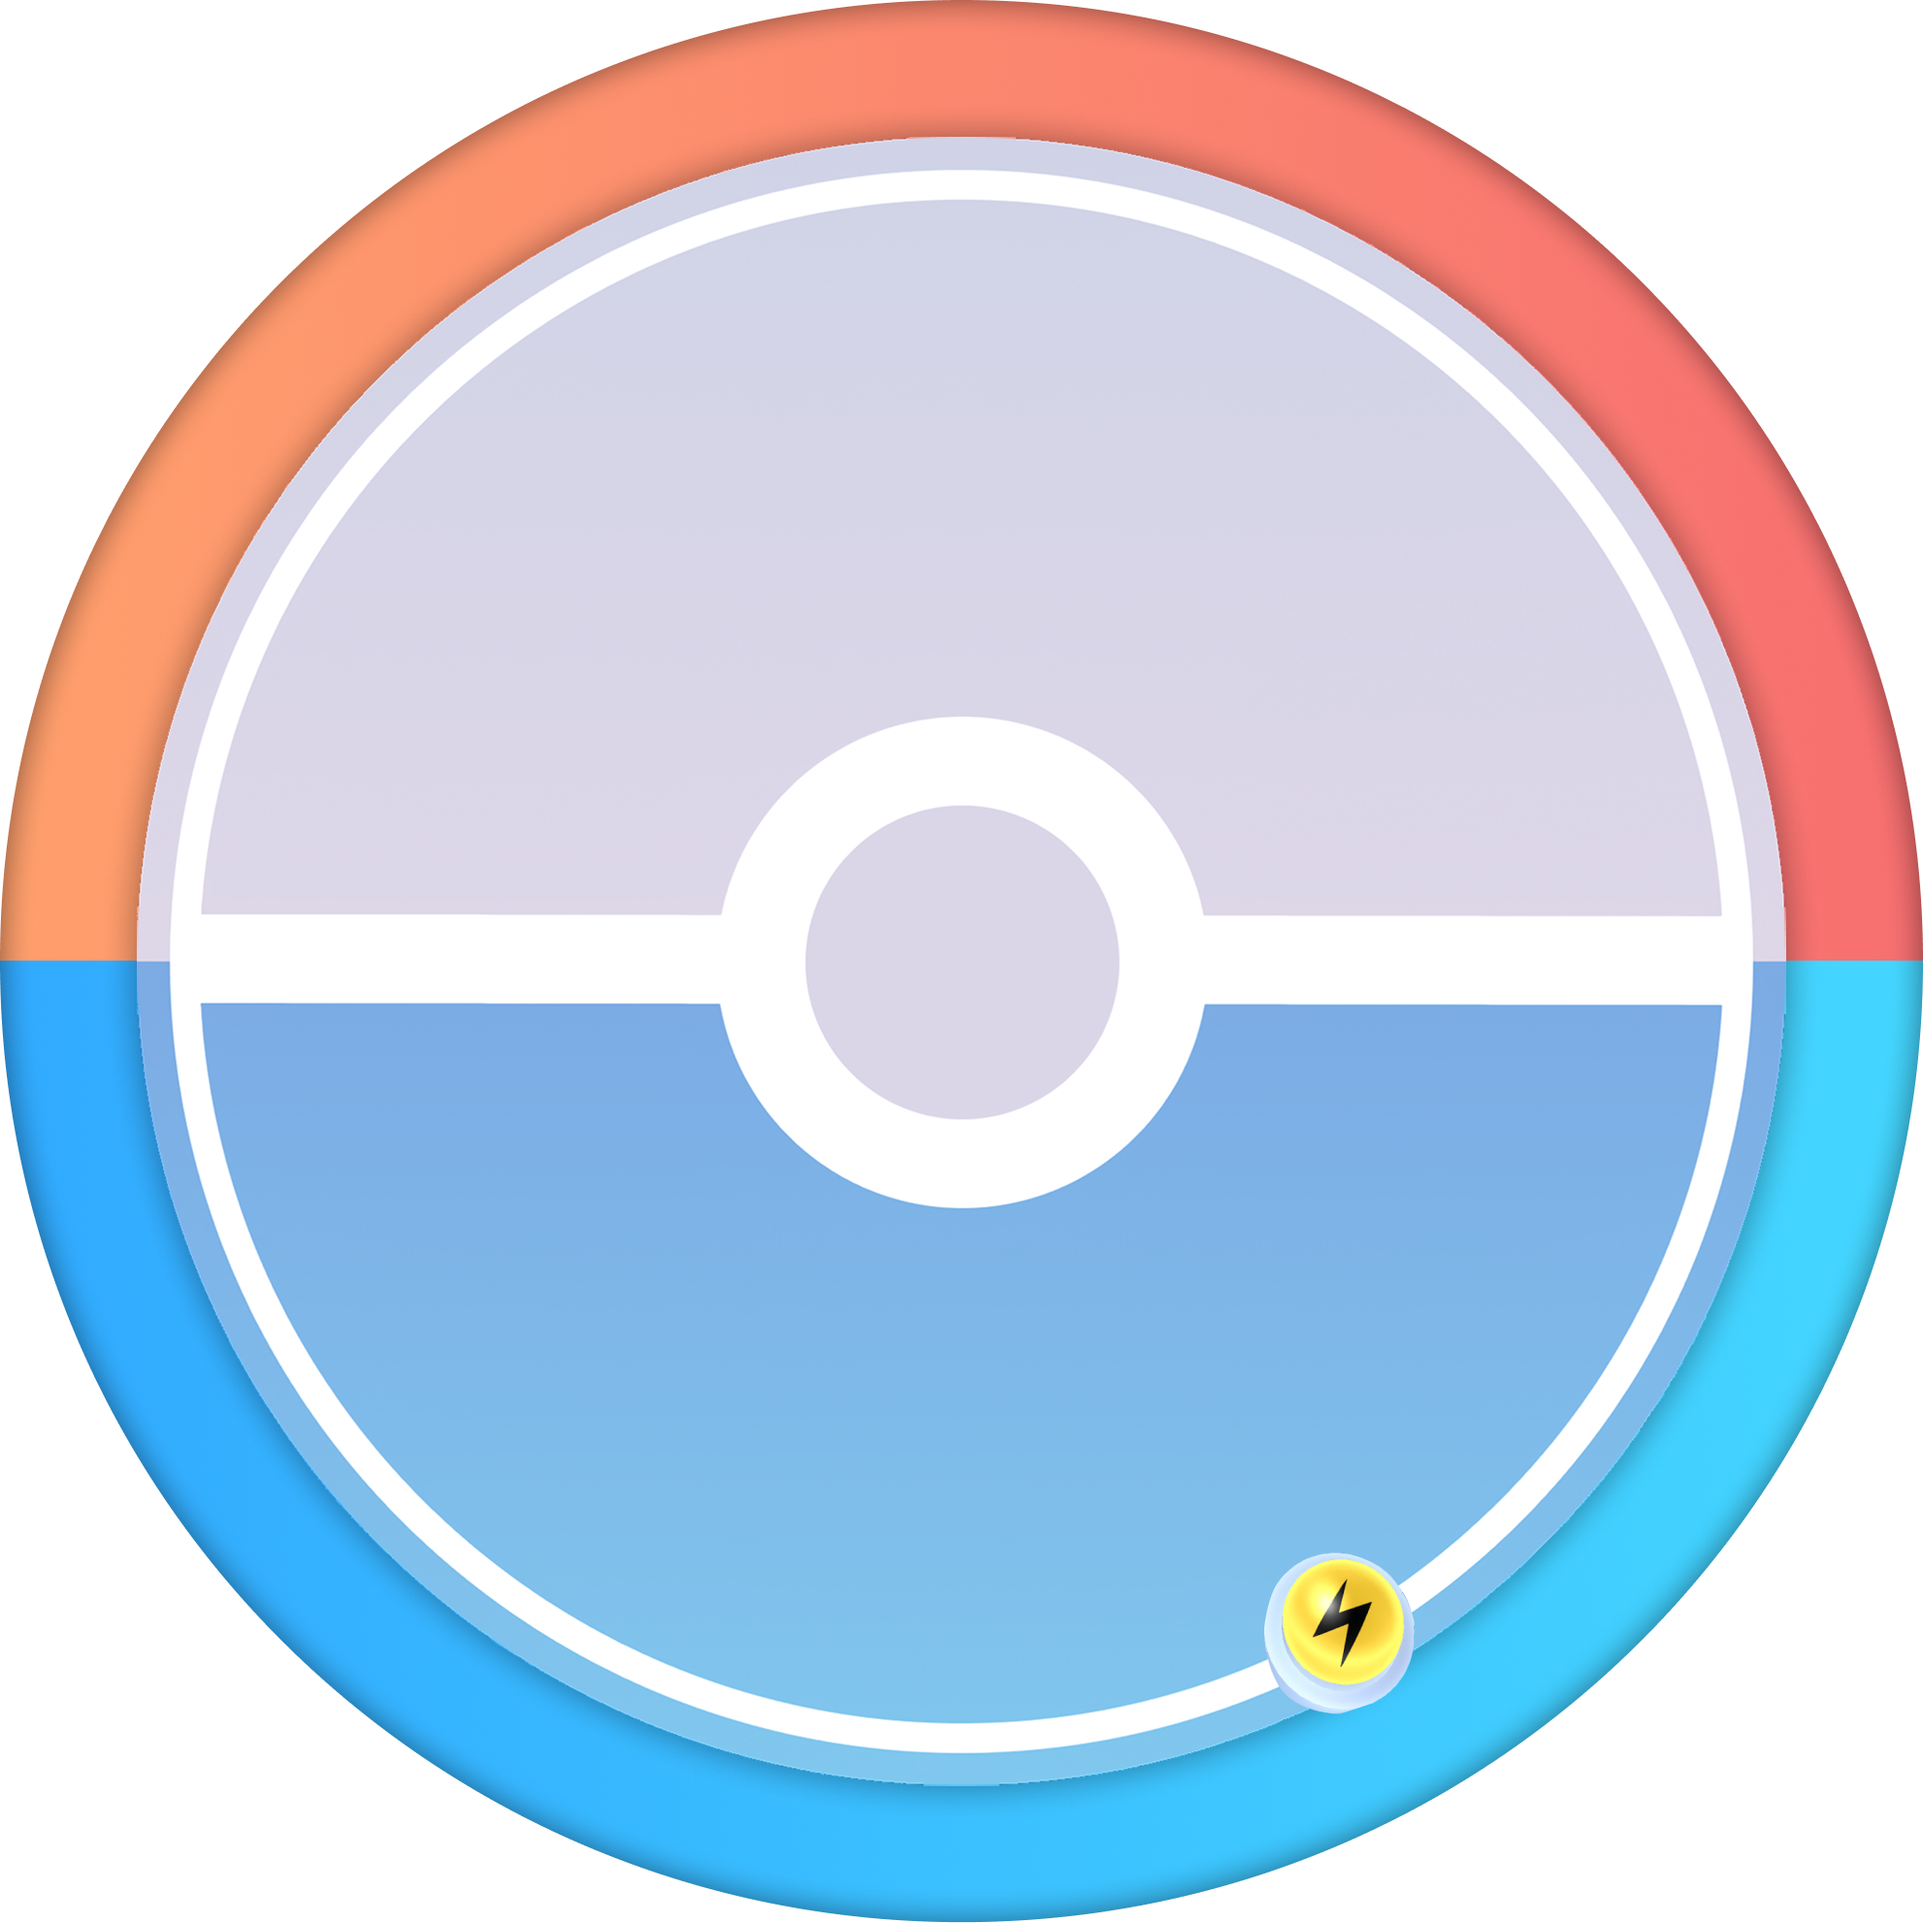
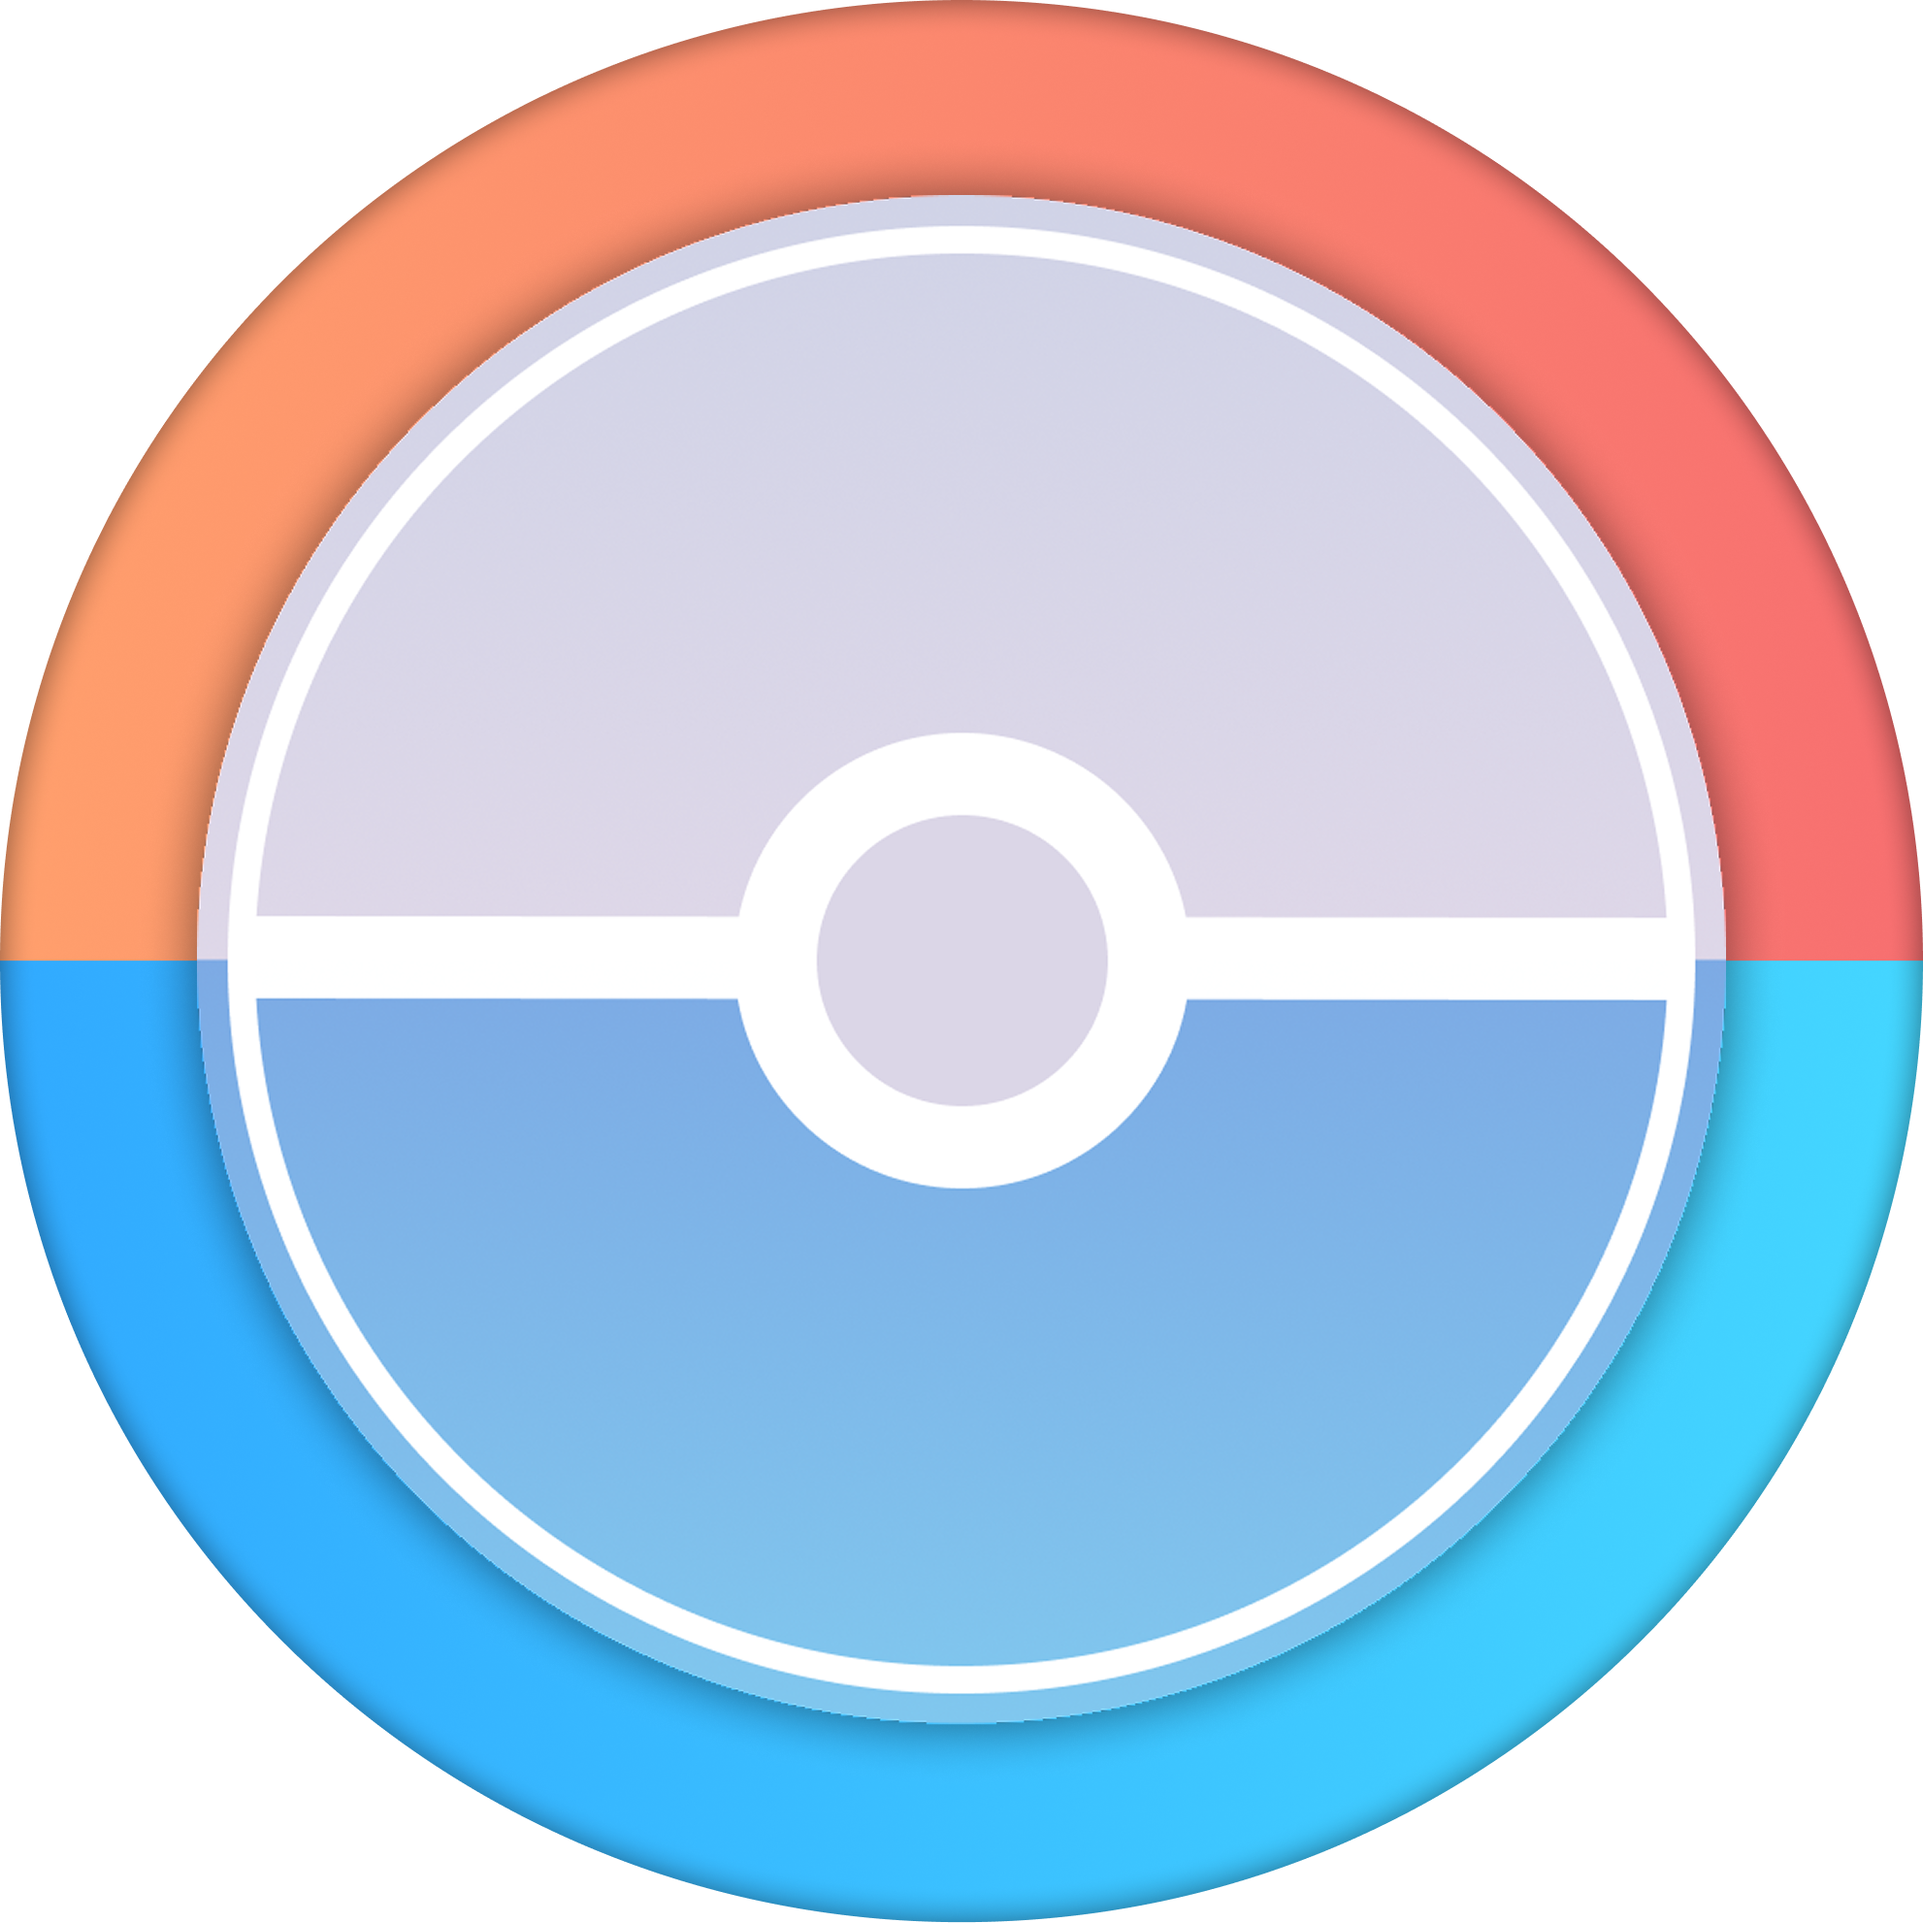
에너지 붙이기 준비

diff --git a/my-app/app/components/BattleField/FieldCards.tsx b/my-app/app/components/BattleField/FieldCards.tsx
@@ -4,7 +4,7 @@ import { useAtom, useAtomValue } from "jotai";
 
 import { data } from "../../data/cards";
 import { myBattlePokemonEnergyAtom, myBattlePokemonHPAtom, enemyBattlePokemonEnergyAtom, enemyBattlePokemonHPAtom } from "../../atom";
-
+import { Draggable } from "../Draggable";
 interface FieldCardsProps {
     onEndTurn: any;
     myTurn: any;
@@ -57,7 +57,24 @@ export const FieldCards: React.FC<FieldCardsProps> = ({
             )}
             {/* 적의 효과칸과 덱 */}
             <div>
-                <img src="pukimon_card_back.png" alt="" className="w-18" />
+            {!myTurn && 
+                    <Draggable 
+                    isReversed={true} 
+                    key={'energy'} 
+                    id={'energy'}
+                    imgLink={``}
+                >
+                    <div className="relative">
+                        <img
+                            // {...longPressHandler()}
+                            src={`ui/energy.png`}
+                            alt=""
+                            className="w-18 transition-all duration-500 cursor-grab hover:scale-110"
+                        />
+                    </div>
+                </Draggable>
+                }
+                <img src="ui/pukimon_card_back.png" alt="" className="w-18" />
 
                 <div>
                     <button
@@ -67,10 +84,13 @@ export const FieldCards: React.FC<FieldCardsProps> = ({
                     >
                         턴 종료하기
                     </button>
+                    
                     <div className="w-18 h-25 rounded-sm bg-black/10 shadow-[inset_0_0_4px_rgba(0,0,0,0.3)]"></div>
 
                 </div>
+                
             </div>
+            
             {/* 배틀 필드 */}
             <div>
                 <Droppable id="y_battle">
@@ -114,7 +134,11 @@ export const FieldCards: React.FC<FieldCardsProps> = ({
                     >
                         {droppedCards['my_battle'] && (
                             <div>
-                                <div className="bg-green-700 absolute p-1 border-4">{myBattlePokemonHP}</div>
+                                {Array(myBattlePokemonEnergy).fill(0).map(() => (
+                                    <div className="bg-green-700 absolute p-1 border-4">에너지</div>
+                                )) }
+                                
+                                <div className="bg-green-700 absolute mt-34 p-1 border-4">{myBattlePokemonHP}</div>
                                 <img
                                     src={droppedCards['my_battle']}
                                     alt={droppedCards['my_battle']}
@@ -122,6 +146,7 @@ export const FieldCards: React.FC<FieldCardsProps> = ({
                                 />
                             </div>
                         )}
+                        
                     </div>
                 </Droppable>
             </div>
@@ -137,7 +162,25 @@ export const FieldCards: React.FC<FieldCardsProps> = ({
                         턴 종료하기
                     </button>
                 </div>
-                <img src="pukimon_card_back.png" alt="" className="w-18" />
+                <img src="ui/pukimon_card_back.png" alt="" className="w-18" />
+                {myTurn && 
+                    <Draggable 
+                    isReversed={false} 
+                    key={'energy'} 
+                    id={'energy'}
+                    imgLink={``}
+                >
+                    <div className="relative">
+                        <img
+                            // {...longPressHandler()}
+                            src={`ui/energy.png`}
+                            alt=""
+                            className="w-18 transition-all duration-500 cursor-grab hover:scale-110"
+                        />
+                    </div>
+                </Draggable>
+                }
+                
             </div>
         </div>
     )

diff --git a/my-app/app/page.tsx b/my-app/app/page.tsx
@@ -199,6 +199,13 @@ export default function App({
     const isMyCard = cardId.startsWith('card-');
     const isEnemyCard = cardId.startsWith('enemycard-');
 
+    alert(cardId)
+    if (cardId == "energy") {
+      if (dropzoneId=='my_battle') {
+        setEnemyBattlePokemonEnergy(prev => prev + 1)
+      }
+    }
+
     // Validate turn and ownership
     if ((myTurn && !isMyCard) || (!myTurn && !isEnemyCard)) return;
 
@@ -209,6 +216,7 @@ export default function App({
     // if (data[cardName]?.beforeEvo !== "") {
     //   return
     // }
+
 
     // 이미 카드가 드롭되있으면 
     if (droppedCards[dropzoneId]){
@@ -226,7 +234,6 @@ export default function App({
         return
       }
     }
-
 
 
     // Battle area handling
@@ -270,7 +277,6 @@ export default function App({
         <OpeningOverlay openingOpacity={openingOpacity} />
         {/* 게임 필드 */}
         <GameBoard openingRotate={openingRotate} openingScale={openingScale} finalGroundRotate={finalGroundRotate}>
-
           {/* 적 카드 영역 */}
           <Hand handList={enemyHandList} playedCards={PlayerCards} isMy={false} />
           {/* 필드 카드 영역 */}
@@ -281,7 +287,6 @@ export default function App({
           <Wating droppedCards={droppedCards} isMy={true} />
           {/* 내 핸드 영역 - 드래그 가능한 카드들 */}
           <Hand handList={myHandList} playedCards={PlayerCards} isMy={true} />
-
           {/* 비디오 영역 */}
           <CoinAnimation startVideo={startVideo} coinTextOpacity={coinTextOpacity} />
         </GameBoard>
